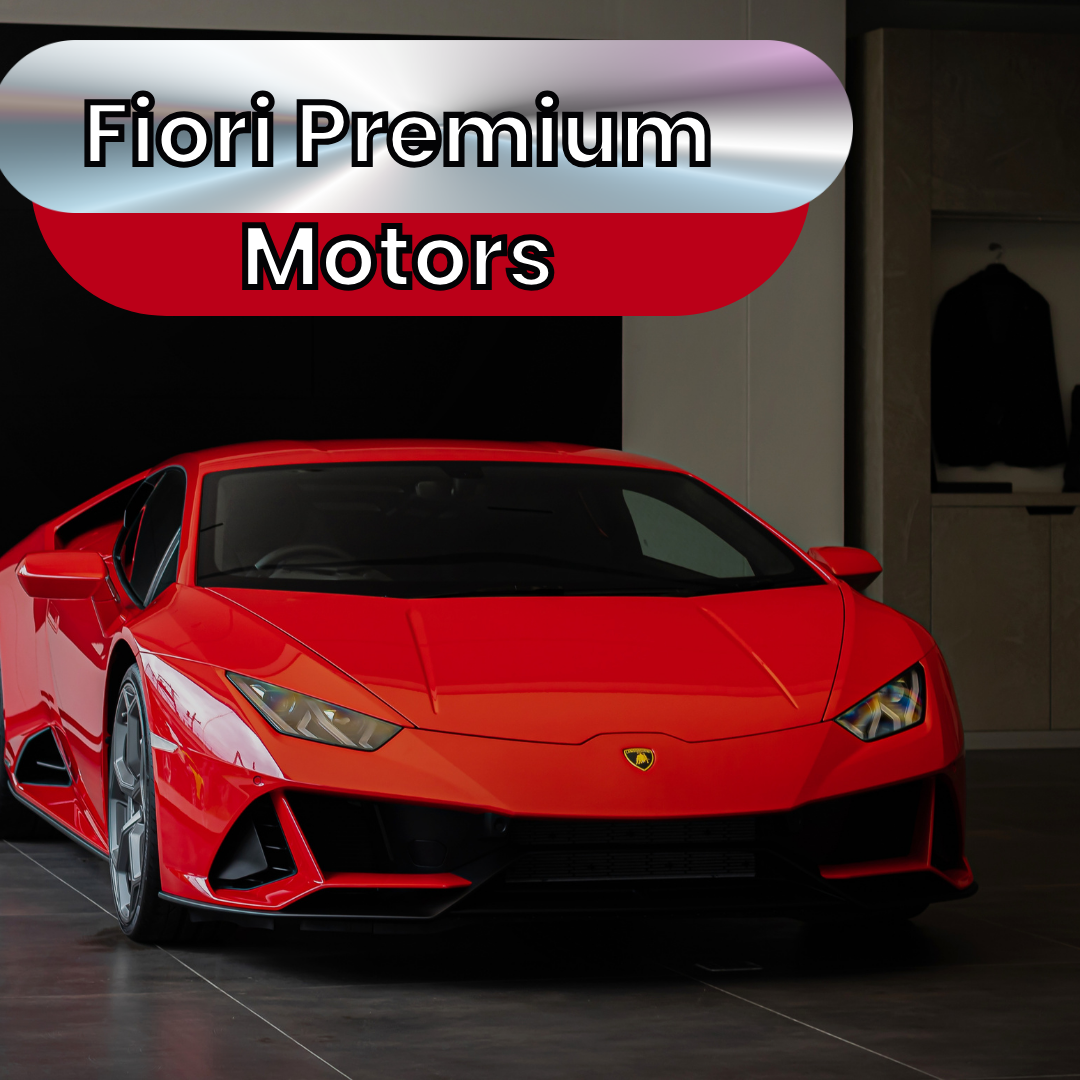
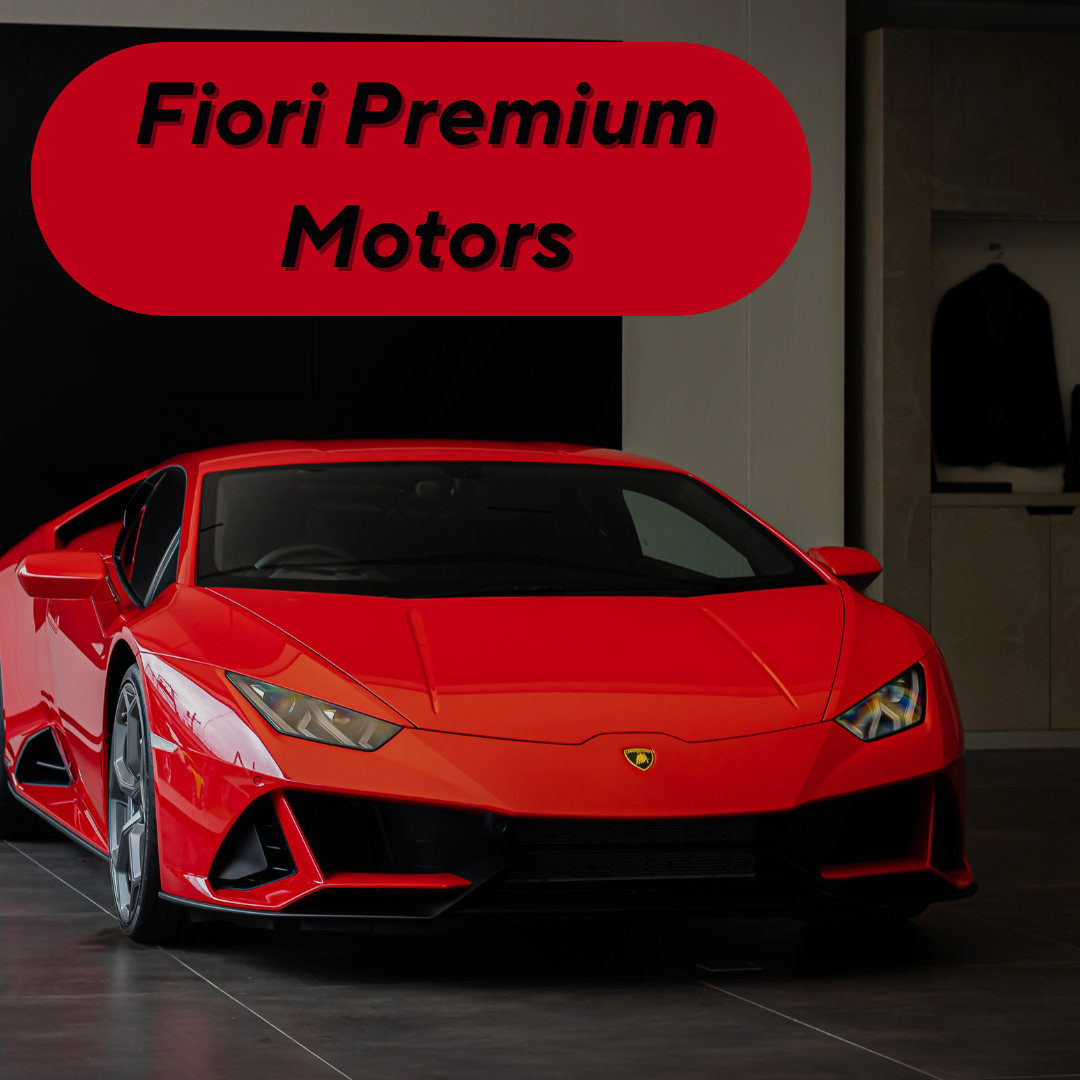
concessionaria 1.1

Changed region(s): [[0.0, 0.0306, 0.7944, 0.275]]

diff --git a/index.html b/index.html
@@ -13,48 +13,59 @@
         <nav class="menu">
             <div class="borda">
                 <div id="logo"><img src="assets/img/Fiori Premium Motors.png" alt=""></div>
-            </div>      
-            <ul>
-                <li><a href="#">Home</a></li>
-                <li><a href="#">Sobre</a></li>
-                <li><a href="#">Contato</a></li>
-            </ul>
+                <ul>
+                    <li><a href="#">Home</a></li>
+                    <li><a href="#">Sobre</a></li>
+                    <li><a href="#">Contato</a></li>
+                </ul>
+                <h3>Venha</h3>
+            </div>
+
         </nav>
     </header>
     <section class="home">
         <main class="container">
             <div id="sobre">
-                <h1 class="about">O que nós somos</h1>
+                <h1 class="about">Quem somos?</h1>
 
-                <p>Lorem ipsum dolor sit amet consectetur adipisicing elit. Ratione, nisi? Quia quas sint reprehenderit
-                    natus. Inventore error natus temporibus vero possimus exercitationem eligendi, accusamus velit nobis
-                    aliquid dolore quis saepe.</p>
-                <p>Lorem ipsum dolor sit amet consectetur adipisicing elit. Ratione, nisi? Quia quas sint reprehenderit
-                    natus. Inventore error natus temporibus vero possimus exercitationem eligendi, accusamus velit nobis
-                    aliquid dolore quis saepe.</p>
-                <p>Lorem ipsum dolor sit amet consectetur adipisicing elit. Ratione, nisi? Quia quas sint reprehenderit
-                    natus. Inventore error natus temporibus vero possimus exercitationem eligendi, accusamus velit nobis
-                    aliquid dolore quis saepe.</p>
+                <p> Bem-vindo à Fiori Premium Motors, onde a paixão pelo automóvel encontra um serviço excepcional.
+                    Fundada com a visão de transformar a experiência de compra de automóveis em algo verdadeiramente
+                    memorável, a Fiori Premium Motors se destaca como uma das principais concessionárias do país,
+                    oferecendo uma seleção incomparável de veículos premium e um atendimento ao cliente
+                    incomparável.</p>
+                <p>Nossa jornada começou há anos, quando um grupo de entusiastas por automóveis se uniu para criar uma
+                    experiência de compra que fosse mais do que apenas transações comerciais. Decidimos que não se
+                    tratava apenas de vender carros, mas de realizar sonhos e proporcionar experiências que durassem
+                    para toda a vida. Desde então, construímos uma reputação de integridade, dedicação e excelência.</p>
+                <p>Na Fiori Premium Motors, acreditamos que a verdadeira luxúria está na qualidade. É por isso que nossa
+                    equipe de especialistas meticulosamente seleciona cada veículo em nosso showroom, garantindo que
+                    apenas os carros mais excepcionais e confiáveis encontrem seu lugar aqui. Além disso, nosso
+                    compromisso com o atendimento ao cliente vai além das expectativas. Estamos aqui para guiá-lo em
+                    cada etapa, desde a escolha do veículo perfeito até o acompanhamento pós-venda.</p>
+                <p>Nossa missão é simples: redefinir a experiência de compra de automóveis. Queremos que você se sinta
+                    não apenas satisfeito, mas encantado com cada interação que tem conosco. Através de uma combinação
+                    de veículos premium, conhecimento especializado e um serviço excepcional, estamos determinados a
+                    criar clientes para a vida toda.</p>
             </div>
-        
+
     </section>
     <section class="duvidas-container">
         <h2 class="contact">Duvidas</h2>
         <p>Tire aqui todas suas duvidas</p>
         <form action="" class="form-container">
-        <div class="inputs">
-            <input type="text" name="name" placeholder="Digite aqui seu nome">
-            <input type="text" name="email" placeholder="Digite aqui seu email">
-        </div>
-        <div>
-            <textarea name="message" placeholder="Digite aqui suas dúvidas"></textarea>
-        </div>
-        <div>
-            <input type="submit" value="enviar">
-        </div>
-    </form>
+            <div class="inputs">
+                <input type="text" name="name" placeholder="Digite aqui seu nome">
+                <input type="text" name="email" placeholder="Digite aqui seu email">
+            </div>
+            <div>
+                <textarea name="message" placeholder="Digite aqui suas dúvidas"></textarea>
+            </div>
+            <div class="enviar">
+                <input type="submit" value="ENVIAR">
+            </div>
+        </form>
     </section>
-</main>
+    </main>
 </body>
 
 </html>

diff --git a/assets/css/site.css b/assets/css/site.css
@@ -4,63 +4,123 @@
     margin: 0;
     padding: 0;
     box-sizing: border-box;
-    background-image: url(../img/fundo.jpg);
+    font-family: 'Gabarito', sans-serif;
+    ;
+}
+
+html {
+    background-color: #212121;
 }
 
 header {
-    min-height: 1080px;
-    background-image: url(../img/fundo.jpg);
+    min-height: 300px;
     background-repeat: no-repeat;
     background-position: center;
     background-size: cover;
     position: relative;
 }
-.borda{
+
+.borda {
     display: flex;
     border-bottom: 1px solid #777;
 }
-#logo img{
 
-background-position: center left;
-width: 200px;
-height: 200px;
-color: crimson;
-text-align: center;
-font-size: 2em;
-font-weight: 900;
-text-shadow: 1px 1px 1px #ffffff;
-line-height: 60px;
+#logo img {
+
+    background-position: center left;
+    width: 200px;
+    height: 200px;
+    color: crimson;
+    text-align: center;
+    font-size: 2em;
+    font-weight: 900;
+    text-shadow: 1px 1px 1px #ffffff;
+    line-height: 60px;
 }
-.menu{
+
+.menu {
     flex: 1;
 }
-.menu ul{
+
+.menu ul {
     display: flex;
     justify-content: flex-end;
     list-style: none;
+    width: 100%;
 }
-.menu ul li{
-min-width: 100px;
-line-height: 30px;
+
+.menu ul li {
+    min-width: 100px;
+    line-height: 30px;
+    display: inline;
+    list-style: none;
 }
-.menu ul li a{
+
+.menu ul li a {
     color: azure;
     font-weight: 500px;
     text-decoration: none;
-    padding: 20px;
+    padding: 20px 40px;
+    display: inline-block;
+    text-align: right;
+    padding-top: 95px;
+
 }
-.menu li a:hover{
-    color: red;
+
+.menu li a:hover {
+    background-color: #BB0018;
+    height: 100%;
 }
+
 .container {
     max-width: 960px;
     margin: auto;
     padding-left: 15px;
     padding-right: 15px;
 }
-#sobre h1{
+
+#sobre h1 {
+    color: #BB0018;
     text-align: center;
-    text-shadow: 3px 3px 3px #777;
+    text-shadow: 3px 3px 3px #72726f;
     font-size: 3em;
     border-bottom: 2px solid #ccc;
+    padding-bottom: 20px;
+}
+
+#sobre p {
+    text-align: center;
+    display: flex;
+    color: rgb(211, 216, 216);
+    min-height: 80px;
+    padding-top: 30px;
+}
+
+section.duvidas-container {
+    text-align: center;
+    padding-top: 60px;
+}
+
+h2 {
+    color: #BB0018;
+}
+
+input {
+    box-shadow: 3px 3px 3px #BB0018;
+    margin: 10px 10px 10px;
+    background-color: #212121;
+}
+
+textarea {
+    padding: 20px 10px;
+    width: 200px;
+    background-color: #212121;
+    box-shadow: 3PX 3PX 3PX #BB0018;
+}
+
+.duvidas-container p {
+    color: rgb(211, 216, 216);
+}
+.enviar input{
+    color: #ccc;
 }
